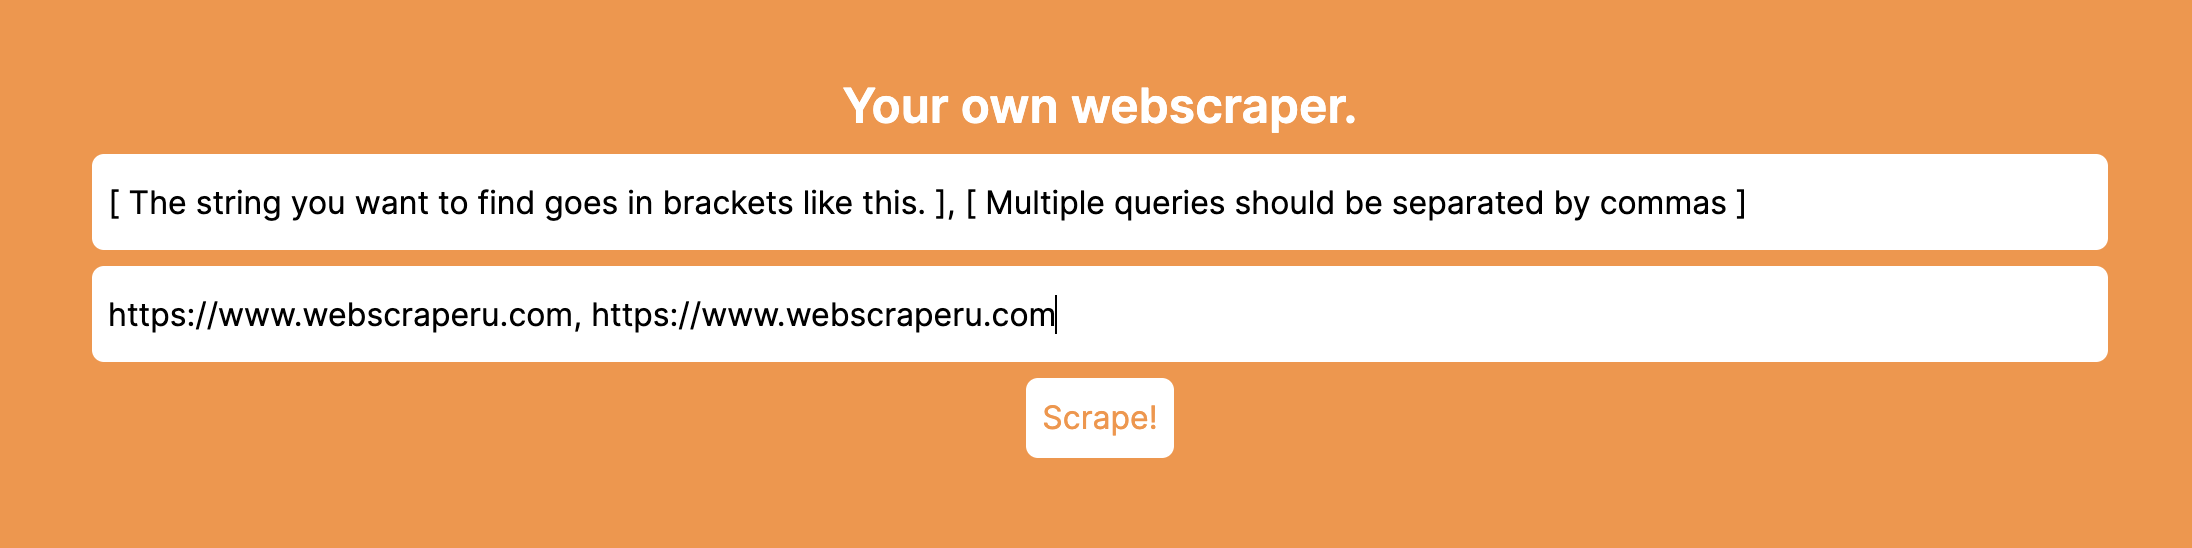
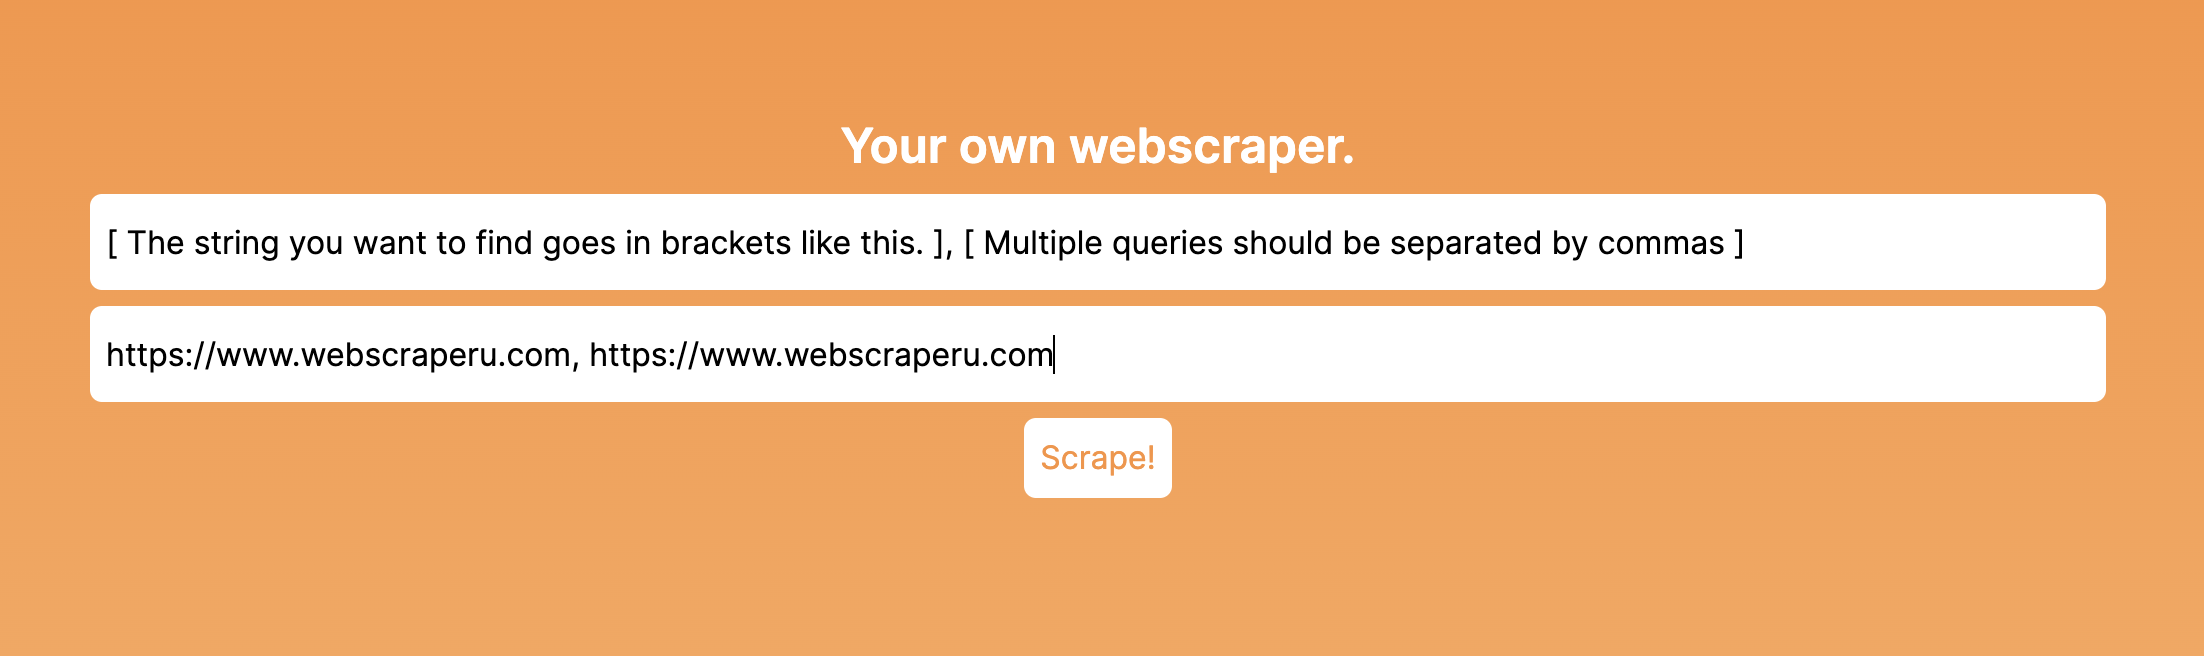
Made some design changes

Changed region(s): [[0.031, 0.2792, 0.9617, 0.8376], [0.031, 0.3412, 0.8066, 0.4033], [0.3723, 0.1551, 0.6204, 0.2482]]

diff --git a/app/Components/Tutorial.tsx b/app/Components/Tutorial.tsx
@@ -19,12 +19,12 @@ const Tutorial = () => {
         <div className="container flex w-full">
             
             { isActive? 
-                <div className="flex flex-row bg-orange-500 w-full h-80 rounded-lg">
+                <div className="flex flex-row my-2 bg-orange-400 w-full rounded-lg">
                     <div className="w-1/12 h-full rounded-l-lg"></div>
                     <div className="w-10/12 h-full">
                         <h1 className="text-white text-2xl font-semibold text-center mt-2 mb-1">Welcome to WebScraperU!</h1>
                         <p className="text-white font-semibold text-center mb-2">Here is a quick example on how to use your own webscraper.</p>
-                        <Image className="rounded-lg"
+                        <Image className="rounded-lg pb-4"
                             src={tutorialPic} 
                             alt="tutorial" 
                             width={900} 

diff --git a/app/page.tsx b/app/page.tsx
@@ -9,15 +9,15 @@ export default async function Home() {
   const api_endpoint = process.env.API_ENDPOINT? process.env.API_ENDPOINT : 'null'
 
   return (
-    <main className='flex w-screen h-screen'>
-      <div className='flex container h-full w-1/6 bg-orange-400'>
+    <main className='flex bg-gradient-to-b from-orange-400 to-orange-300 w-screen h-screen'>
+      <div className='flex container h-full w-1/6'>
         <Navbar/>
       </div>
-      <div className='flex flex-col container h-full w-4/6 bg-orange-400 items-center overflow-scroll'>
+      <div className='flex flex-col container h-full w-4/6 items-center overflow-scroll'>
         <Searchbar url= { api_endpoint }/>
         <Tutorial/>
       </div>
-      <div className='flex container h-full w-1/6 bg-orange-400 items center'></div>
+      <div className='flex container h-full w-1/6 items center'></div>
     </main>
   )
 }

diff --git a/app/Components/DisplayBoxes.tsx b/app/Components/DisplayBoxes.tsx
@@ -158,7 +158,7 @@ const DisplayBoxes = ({ formData, url, submitEvent }: {formData: FormData, url: 
                                             </div>
                                         </div>
                                     </div>)
-                                    :(<p className='my-auto px-2 text-xl text-orange-400 font-semibold'>Get scraping! Your results will display here!</p>))}
+                                    :(<p className='my-auto px-2 text-xl text-white font-semibold'>Get scraping! Your results will display here!</p>))}
                                 </div>)}
                 </div>
             }   

diff --git a/app/Components/Searchbar.tsx b/app/Components/Searchbar.tsx
@@ -104,7 +104,7 @@ const Searchbar = ({ url }: {url: string}) => {
 
     return (
         <div className="w-full">
-            <form onSubmit= {handleSubmit} className='flex flex-col items-center justify-center h-96 w-full bg-orange-400 rounded-md'>
+            <form onSubmit= {handleSubmit} className='flex flex-col items-center justify-center h-96 w-full rounded-md'>
                 <h1 className='mx-auto select-none text-2xl font-semibold py-2'>Your own webscraper.</h1>
                 <input 
                     name= "words"

diff --git a/app/mentions/page.tsx b/app/mentions/page.tsx
@@ -17,7 +17,7 @@ const Page = () => {
 
     
     return (
-        <div className='flex justify-center h-screen w-screen overflow-scroll bg-orange-400'>
+        <div className='flex justify-center h-screen w-screen overflow-scroll bg-gradient-to-b from-orange-400 to-orange-300'>
             <Head>
                 <title>Mentions</title>
             </Head>
